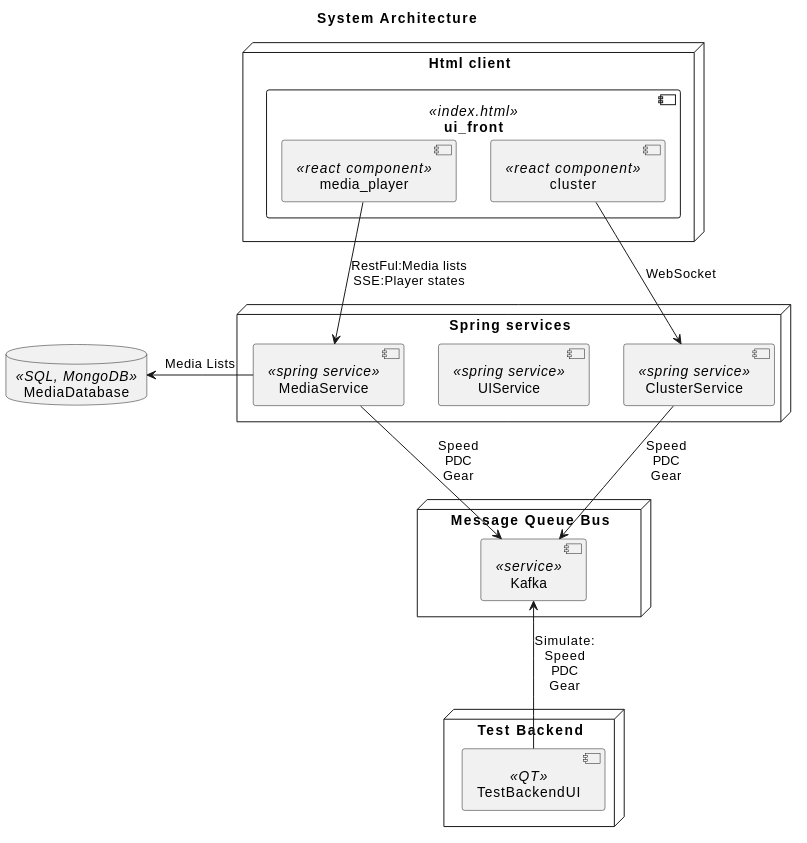
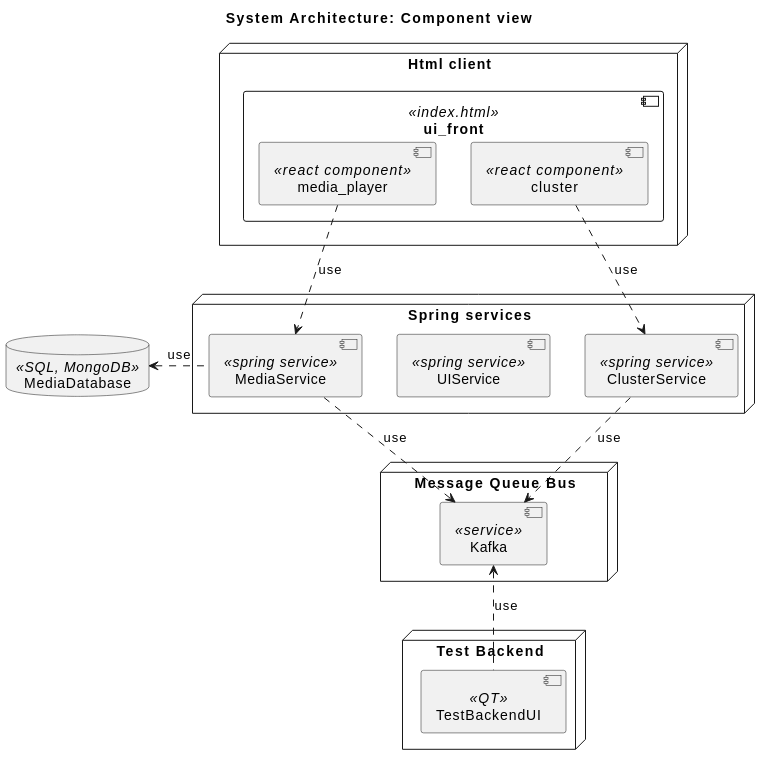
Add documetation

Changed region(s): [[0.0, 0.0, 0.9961, 0.9909]]

diff --git a/README.md b/README.md
@@ -5,6 +5,7 @@
 - [Web Car Infortainment demo.](#web-car-infortainment-demo)
 - [Architecture](#architecture)
   - [Component overview](#component-overview)
+  - [Collaboration overview](#collaboration-overview)
 - [Preconditions](#preconditions)
   - [Run Kafka](#run-kafka)
 - [Build instructions](#build-instructions)
@@ -18,6 +19,16 @@
 ## Architecture
 ### Component overview
 ![System overview](./model/SysA_Overview.png)
+### Collaboration overview
+The media_player React component interacts with a RESTful API to retrieve media data, such as playlists and songs, and provides playback functionality. Player state updates are delivered asynchronously via Server-Sent Events (SSE).
+
+The cluster React component receives real-time vehicle data — including speed, Park Distance Control (PDC), and gear status — through a WebSocket connection.
+
+On the backend, MediaService and VehicleService (Spring services) are integrated with a Kafka message bus to receive vehicle data from hardware (emulated by TestBackendUI). While VehicleService processes all incoming vehicle data, MediaService specifically consumes PDC information to pause and disable the media player when PDC is active (e.g., during reverse gear maneuvers, when audio playback may interfere with driver awareness).
+
+MediaService supports both SQL and NoSQL (MongoDB) databases for data storage.
+
+![Collaboration overview](./model/SysA_Collaboration.png)
 ## Preconditions:
 ### Run Kafka message bus
 
